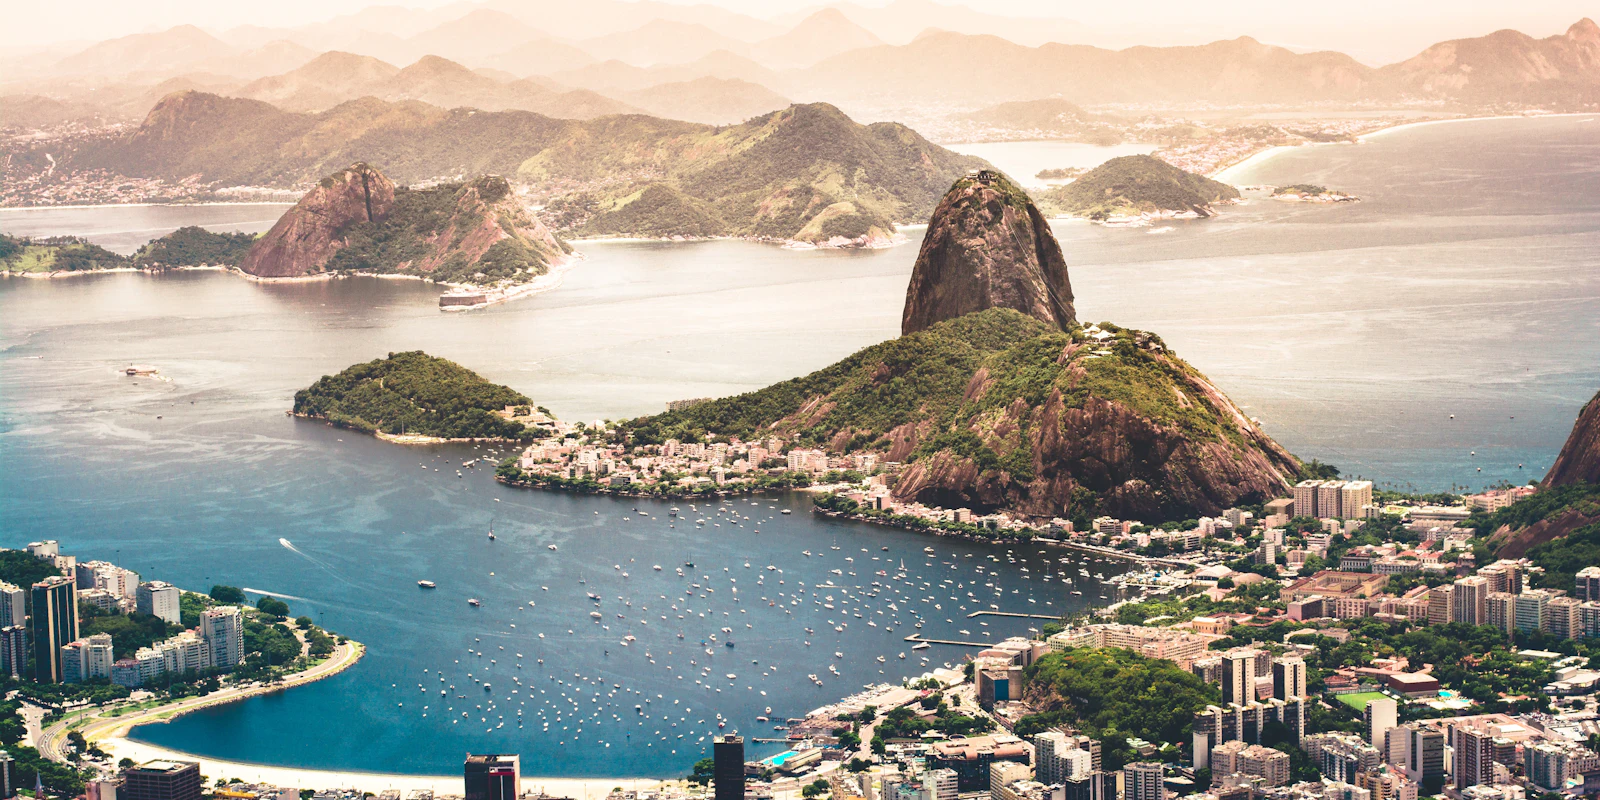
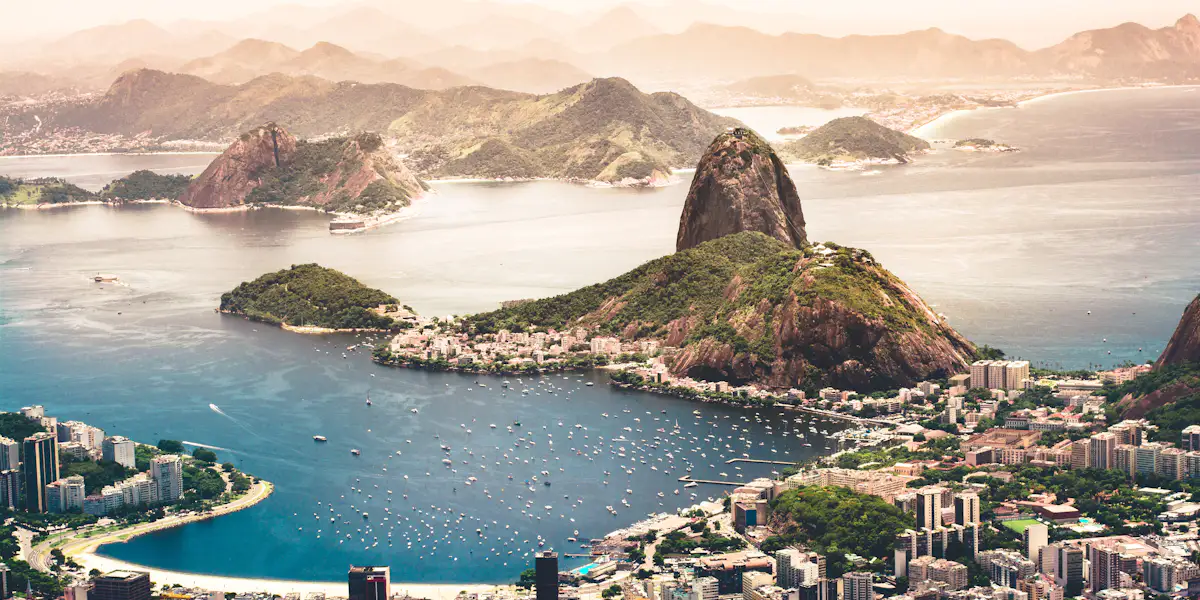
perf(place): optimize hero images under the 125 kB audit limit
Re-encodes both WebP heroes (1200x600 and 600x700) and replaces the
remaining rgba() colors with hex notation for a consistent color system.

diff --git a/place.html b/place.html
@@ -21,7 +21,7 @@
 
   <main>
     <picture class="hero">
-      <source srcset="images/rio-hero-large.webp" media="(min-width: 700px)" width="1600" height="800">
+      <source srcset="images/rio-hero-large.webp" media="(min-width: 700px)" width="1200" height="600">
       <img src="images/rio-hero-small.webp" alt="Aerial view of Rio de Janeiro with the Sugarloaf Mountain and Guanabara Bay" width="600" height="700">
     </picture>
 

diff --git a/styles/place.css b/styles/place.css
@@ -67,7 +67,7 @@ main {
   margin: -2.5rem 1rem 1.5rem;
   position: relative;
   border-radius: 4px;
-  box-shadow: 0 2px 8px rgba(0, 0, 0, 0.35);
+  box-shadow: 0 2px 8px #00000059;
 }
 
 .card + .card {
@@ -79,7 +79,7 @@ main {
   font-size: 1.25rem;
   color: var(--brand-yellow);
   margin: 0 0 0.75rem;
-  border-bottom: 1px solid rgba(255, 255, 255, 0.35);
+  border-bottom: 1px solid #ffffff59;
   padding-bottom: 0.5rem;
 }
 
